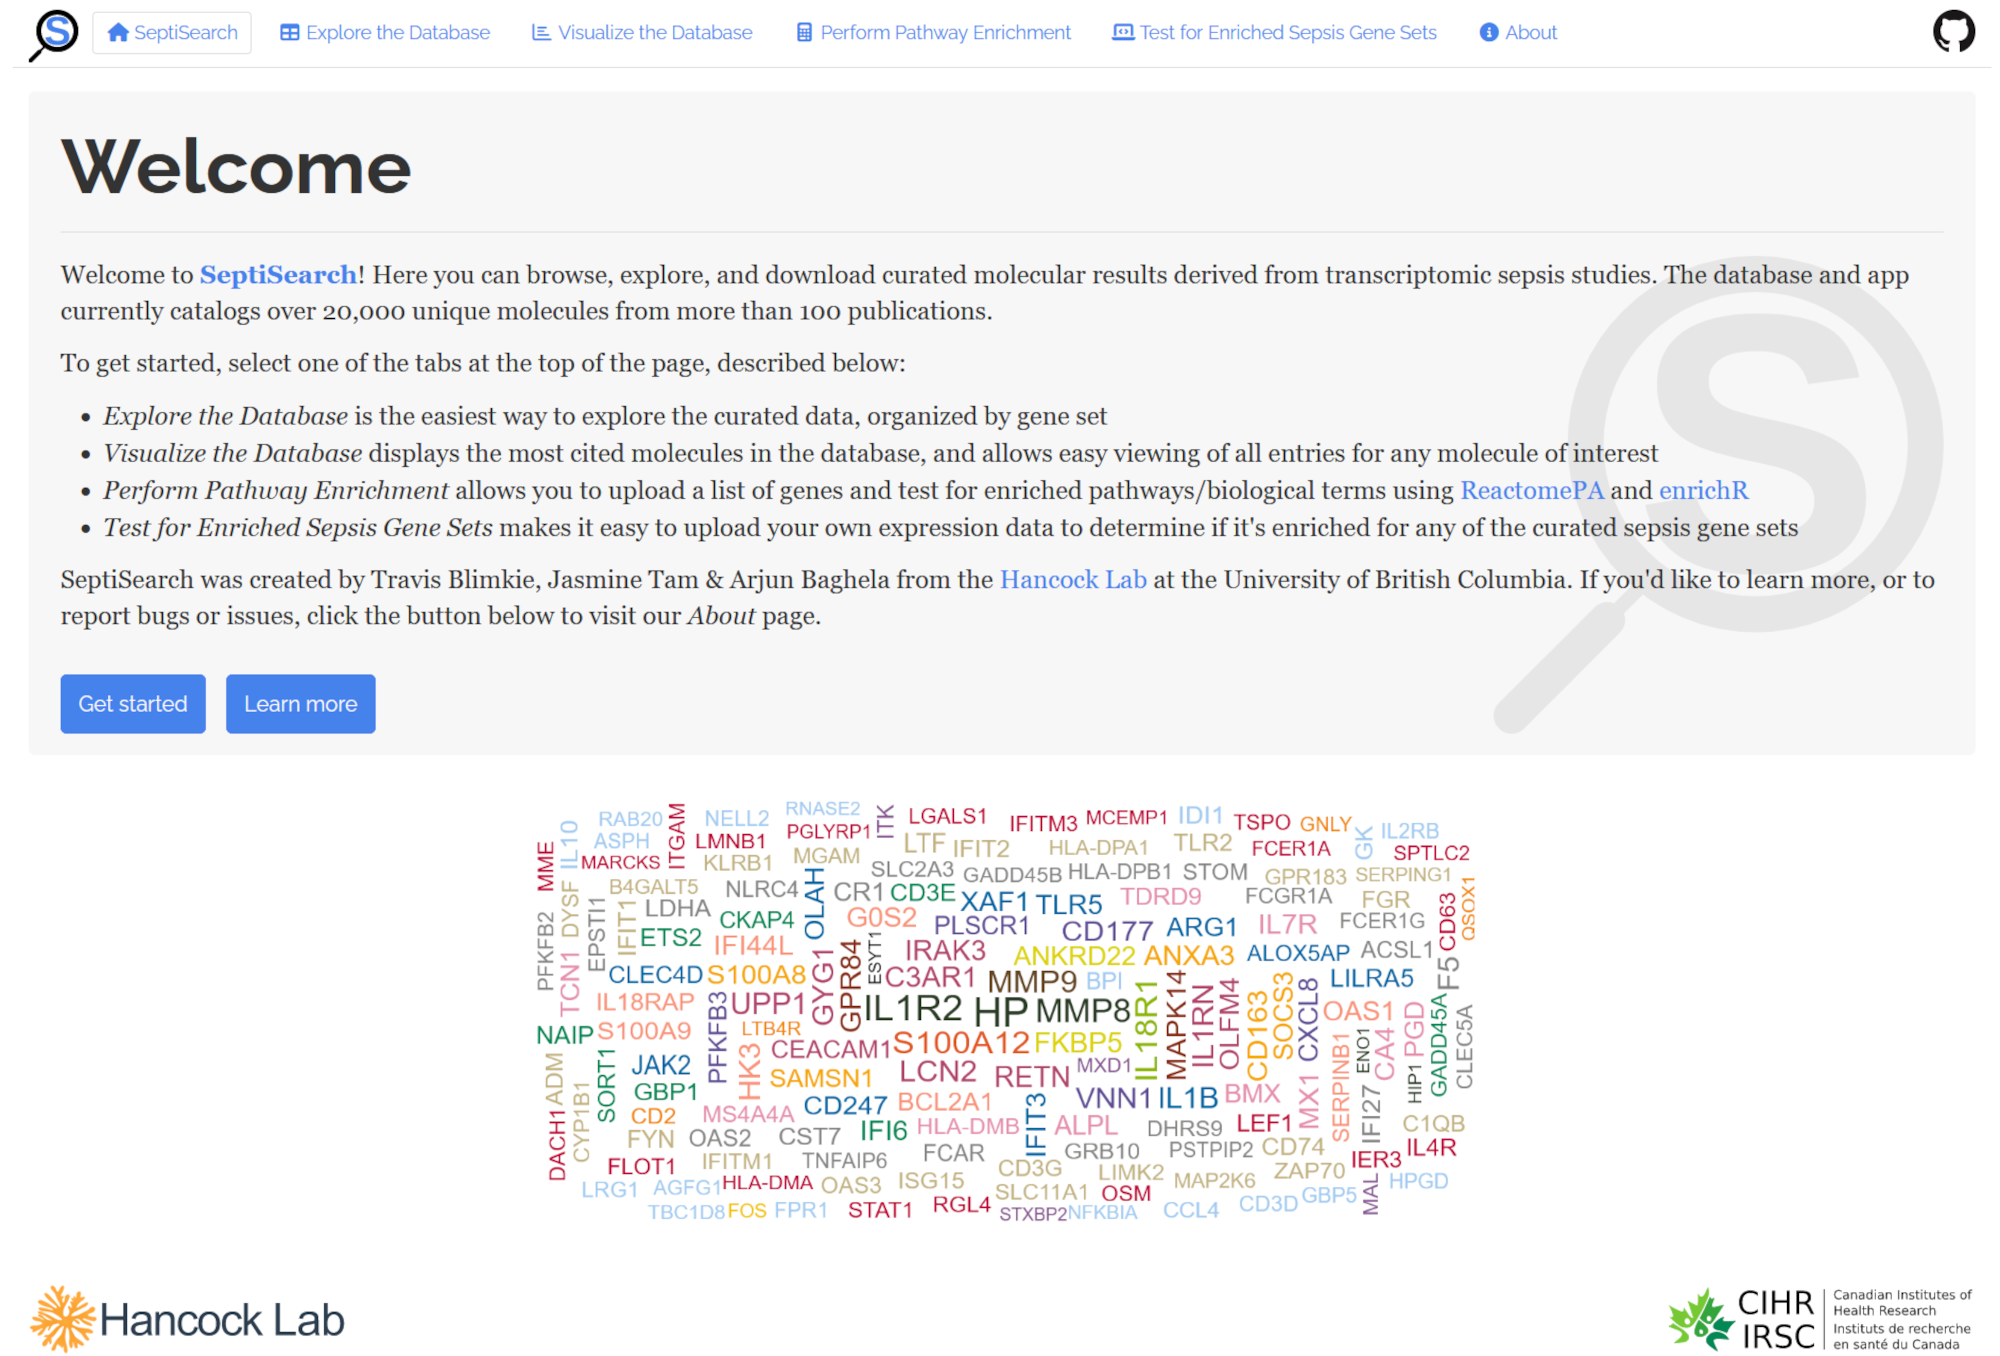
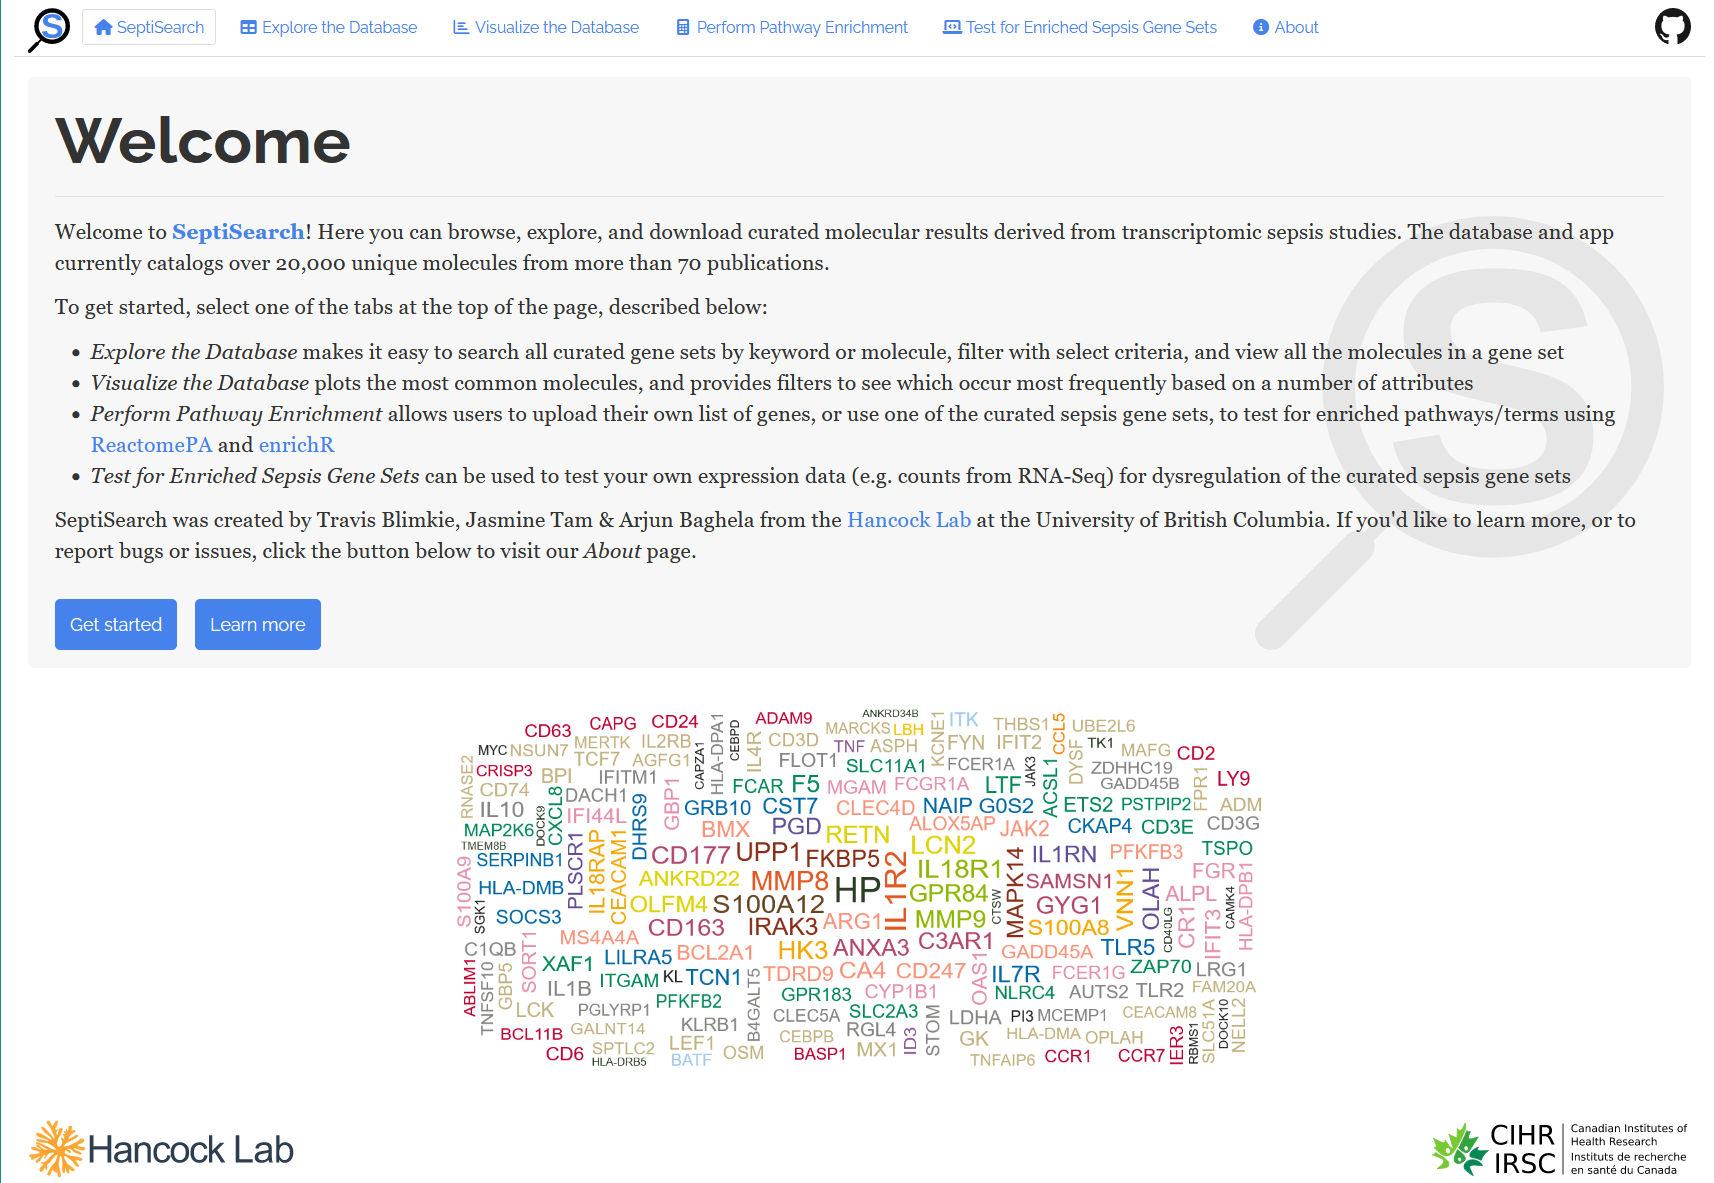
Updated image of site in README, and made text in README match the app.

diff --git a/README.md b/README.md
@@ -16,9 +16,8 @@ ways:
 - **Explore the Database** makes it easy to search all curated gene sets by
 keyword or molecule, filter with select criteria, and view all the molecules in
 a gene set
-- **Visualize the Database** displays the most common molecules, and provides
-filters to see which occur most frequently based on a number of attributes (e.g.
-COVID studies)
+- **Visualize the Database** plots the most common molecules, and provides
+filters to see which occur most frequently based on a number of attributes
 - **Perform Pathway Enrichment** allows users to upload their own list of genes,
 or use one of the curated sepsis gene sets, to test for enriched pathways/terms
 using ReactomePA and EnirchR
